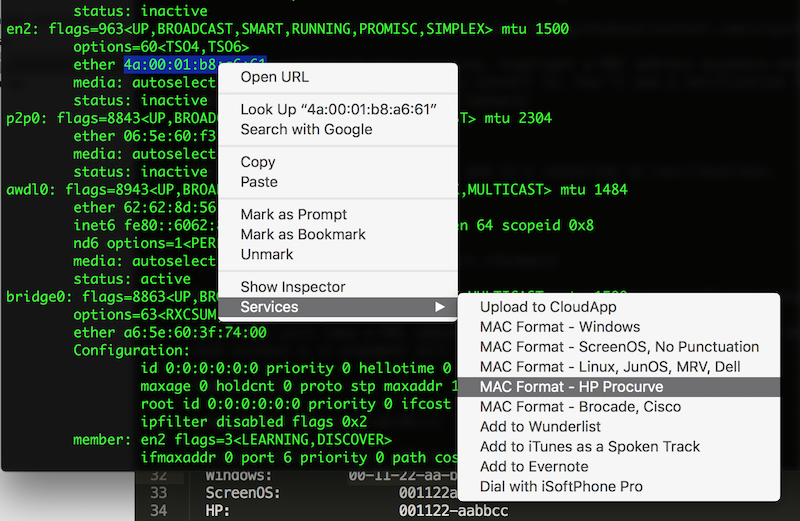
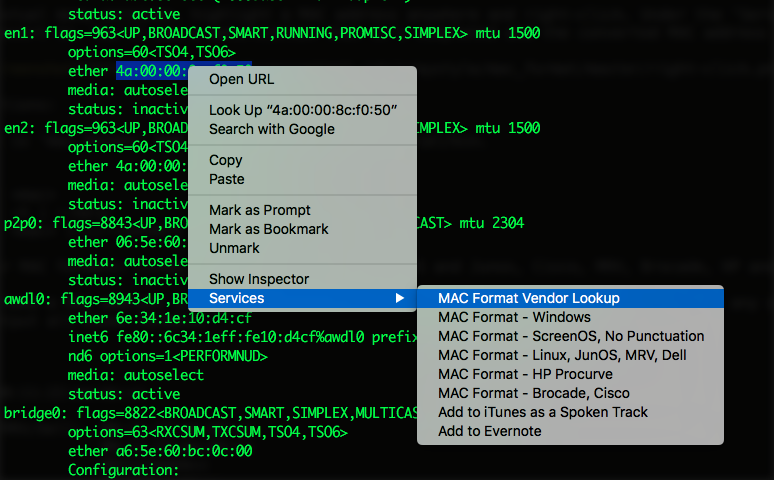
Update README for vendor lookup info, update screenshot as well.

diff --git a/README.md b/README.md
@@ -1,7 +1,7 @@
-MAC Address Formatter
+MAC Address Formatter And OUI Lookup Tool
 ------------------------
 
-Mac Address Formatter is a Mac OS X app that will reformat MAC addresses to different vendor formats.
+Mac Address Formatter is a Mac OS X app that will reformat MAC addresses to different vendor formats and perform OUI vendor lookups on MAC addresses in most any format.
 
 It has two components, the CLI utility and the OS X contextual menu services.
 
@@ -9,9 +9,11 @@ To install MAC Formatter, paste the following command into a terminal window:
 	
 	/usr/bin/ruby -e "$(curl -fsSL https://raw.githubusercontent.com/xraystyle/mac_format/master/install)"
 
+If you've previously installed and want to update to the newest version, just re-run the above script again.
+
 Installing this app requires typing your admin password to install the required Ruby Gem, Docopt.
 
-To use the contextual menu services, highlight a MAC address anywhere and right-click. Under the 'Services' submenu, click on the format you'd like to convert to. You'll see a notification that it's completed and the converted MAC address will be copied to your clipboard.
+To use the contextual menu services, highlight a MAC address anywhere and right-click. Under the 'Services' submenu, click on the format you'd like to convert to. You'll see a notification that it's completed and the converted MAC address will be copied to your clipboard. If you select the Vendor Lookup service option, you'll receive a notification with the name of the vendor.
 
 ![Right-Click Screenshot](https://raw.githubusercontent.com/xraystyle/mac_format/master/right-click.png)
 
@@ -21,8 +23,15 @@ The command name is 'mac_format' and it's installed to /usr/local/bin.
 
 	Usage:
 	  mac_format <mac>
+	  mac_format -l <mac>
 	  mac_format -h | --help
-	  mac_format <mac> [-c|--convert <format>]
+	  mac_format <mac> [-c|--convert <format>] 
+
+	Options:
+	  none          Show MAC in all known formats.
+	  -h --help     Show this screen.
+	  -c --convert  Specify a MAC address format. (Linux|Brocade|Cisco|ScreenOS|JunOS|MRV|HP|Dell|Windows)
+	  -l            Perform a vendor lookup on the given MAC address.
 
 Recognized vendor MAC formats: Linux, Windows, Juniper ScreenOS and Junos, Cisco, MRV, Brocade, HP and Dell Switches.
 
@@ -30,7 +39,7 @@ mac_format will take a MAC address in any of the vendor formats listed above and
 
 Sample output:
 
-	mac_format 00:11:22:aa:bb:cc
+	~$ localhost: mac_format 00:11:22:aa:bb:cc
 
 	Linux/JunOS/MRV/Dell:  00:11:22:aa:bb:cc
 	Windows:			   00-11-22-aa-bb-cc
@@ -38,6 +47,8 @@ Sample output:
 	HP:                    001122-aabbcc
 	Brocade/Cisco:         0011.22aa.bbcc
 
+	~$ localhost: mac_format -l d4:f4:be:49:03:00
+	Palo Alto Networks
 
 
 To uninstall, paste the following command into a terminal window:
@@ -47,6 +58,11 @@ To uninstall, paste the following command into a terminal window:
 
 Updates
 --------------
+
+5/4/2016
+
+Added vendor OUI lookup functionality! You can now lookup a vendor with either the CLI tool or with the new OS X contextual menu service!
+
 
 5/3/2016
 
